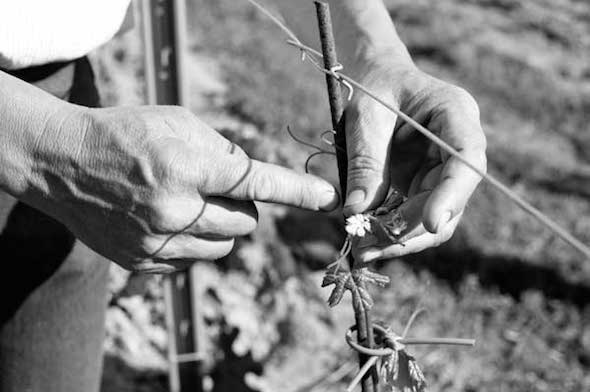
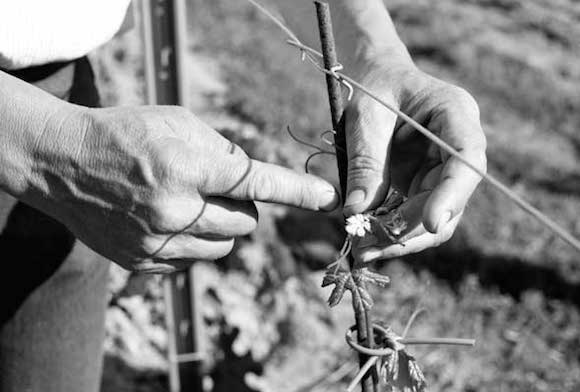
crop images, fix css

diff --git a/css/style.css b/css/style.css
@@ -81,22 +81,16 @@ main {
 	width: 190px;
 	float: left;
 	padding: 10px;
-<<<<<<< HEAD
-=======
 	margin-right: 10px;
->>>>>>> master
 }
 .col400 {
 	width: 390px;
 	float: left;
-<<<<<<< HEAD
 	width: 400px;
 	margin-right: 20px;
 	vertical-align: baseline;
-=======
 	padding: 10px;
 	margin-right: 10px;
->>>>>>> master
 }
 .col600 {
 	width: 590px;
